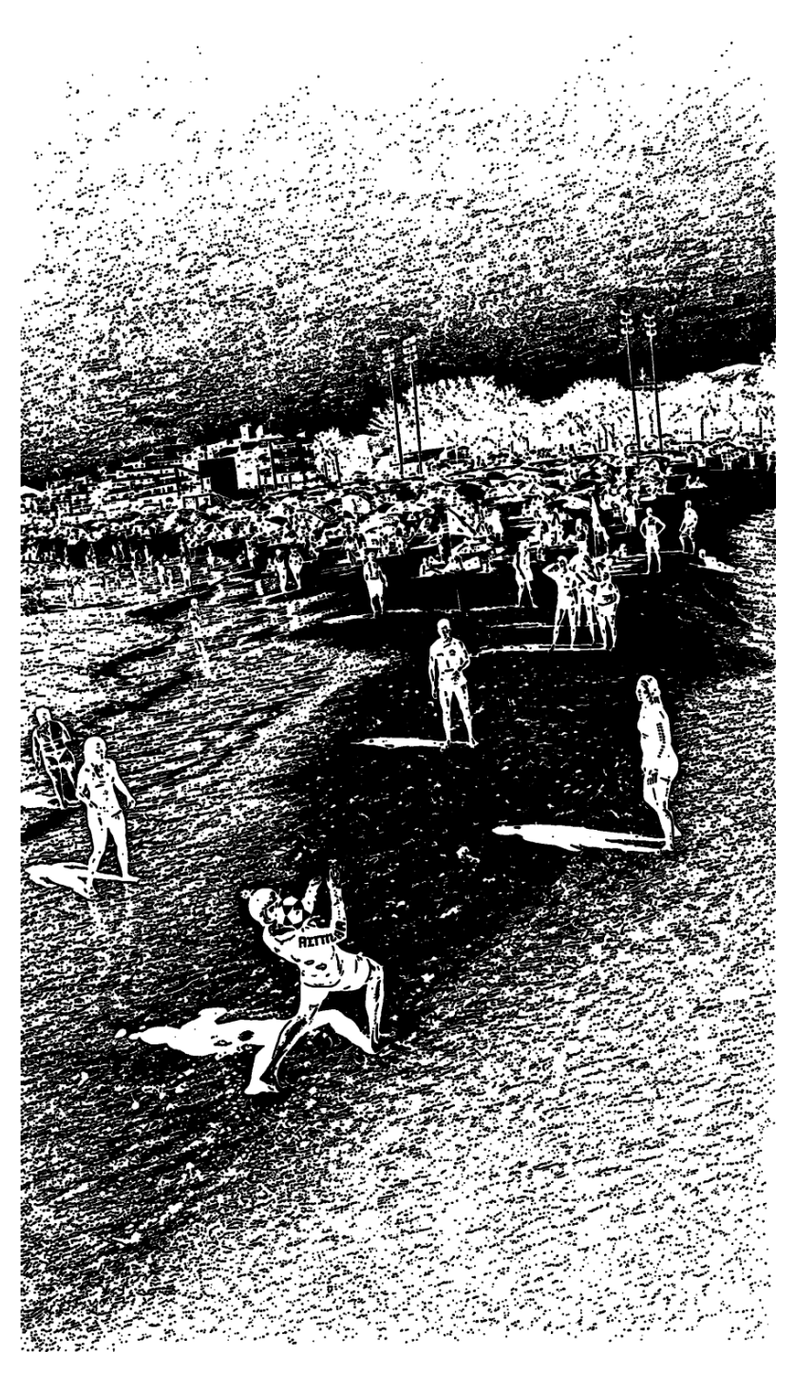
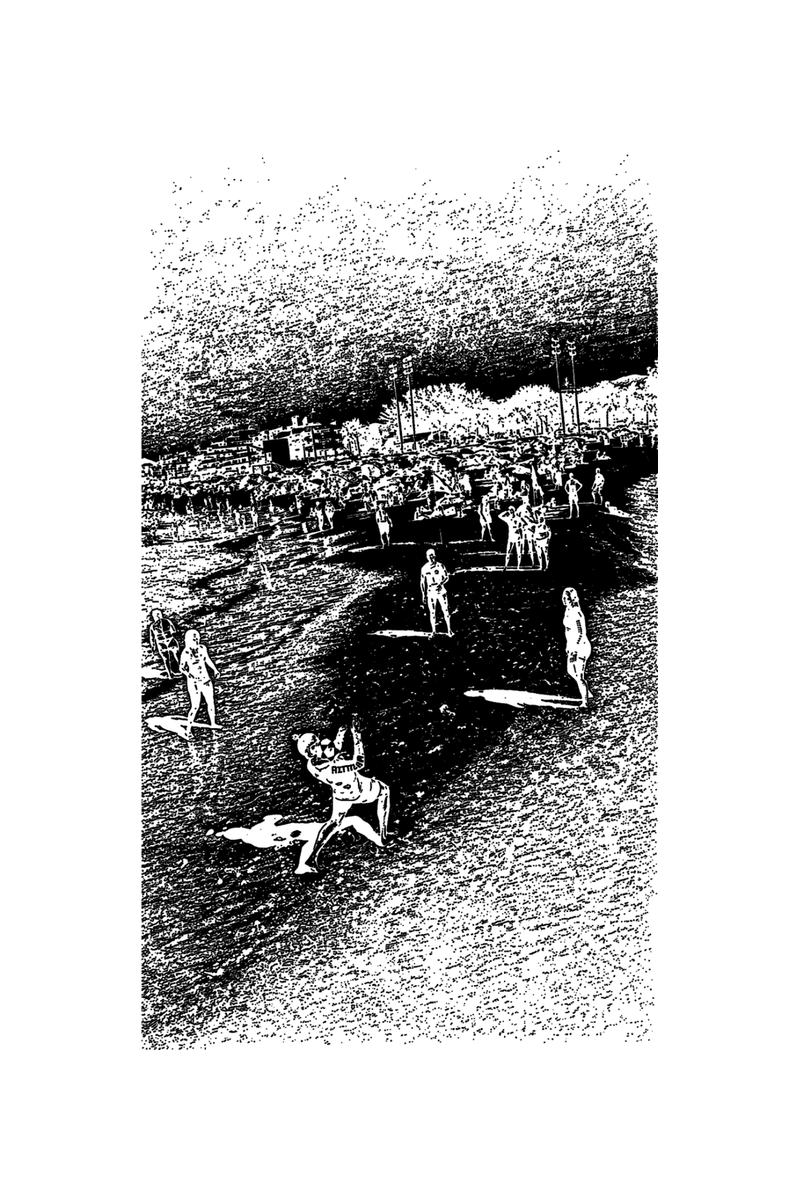
feat: normalize all 8 back artwork PNGs into standardized 800x1200 canvas with pixel-perfect uniform content scale

diff --git a/src/data/product.ts b/src/data/product.ts
@@ -123,7 +123,7 @@ export const ALTA7_PRODUCT: ProductData = {
       thumbnail: '/products/tshirt/prints/white/5_2_ruu1fn.png',
       overlayImageBack: '/products/tshirt/prints/white/5_2_ruu1fn.png',
       overlayImageBackWhite: '/products/tshirt/prints/white/5_2_ruu1fn.png',
-      overlayImageBackBlack: '/products/tshirt/prints/black/8da336b4-250c-43b6-96c2-33de55ecdd22_witddz.webp',
+      overlayImageBackBlack: '/products/tshirt/prints/black/art04-black.png',
     },
   ],
   sizes: [
